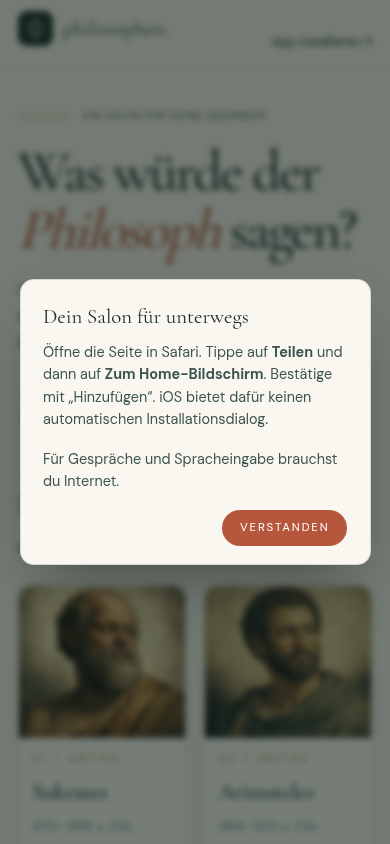
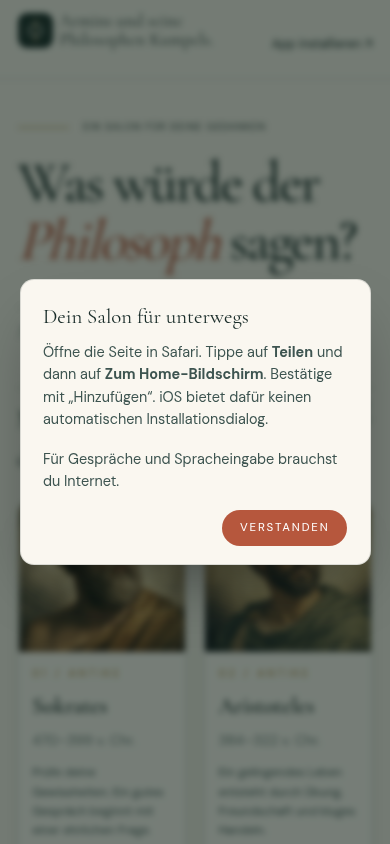
Invite mobile visitors to install with a three-day cooldown; personalize gift branding

diff --git a/src/main.jsx b/src/main.jsx
@@ -7,6 +7,9 @@ import './brand.css';
 
 const VERSION=__APP_VERSION__;
 window.__APP_VERSION__=VERSION;
+const INSTALL_STORE='philosophen-install-v1';
+const INSTALL_COOLDOWN=3*24*60*60*1000;
+function readInstall(){try{return JSON.parse(localStorage.getItem(INSTALL_STORE)||'{}')||{}}catch{return {}}}
 const STORE='philosophen-salon-v1';
 function readStore(){try{const v=JSON.parse(localStorage.getItem(STORE)||'{}');return {active:typeof v.active==='string'?v.active:null,drafts:v.drafts&&typeof v.drafts==='object'?v.drafts:{},threads:v.threads&&typeof v.threads==='object'?v.threads:{},transcripts:v.transcripts&&typeof v.transcripts==='object'?v.transcripts:{}}}catch{return {active:null,drafts:{},threads:{},transcripts:{}}}}
 const initial=readStore();
@@ -18,6 +21,7 @@ function App(){
  const [busy,setBusy]=useState(false),[pending,setPending]=useState(''),[phase,setPhase]=useState(''),[seconds,setSeconds]=useState(0);
  const [online,setOnline]=useState(navigator.onLine),[update,setUpdate]=useState(false),[refreshing,setRefreshing]=useState(false);
  const [installEvent,setInstallEvent]=useState(null),[modal,setModal]=useState(null),[storageWarning,setStorageWarning]=useState(false);
+ const installMemory=useRef(readInstall()),nativePending=useRef(false),installStorageFailed=useRef(false);
  const [standalone,setStandalone]=useState(matchMedia('(display-mode: standalone)').matches||navigator.standalone===true);
  const registration=useRef(null),refreshApproved=useRef(false),busyRef=useRef(false),abortChat=useRef(null),abortAudio=useRef(null),recorder=useRef(null),recordTimer=useRef(null),recordCancelled=useRef(false),mounted=useRef(true),bottom=useRef(null),input=useRef(null);
  const active=personas.find(p=>p.id===data.active);const id=active?.id;
@@ -36,7 +40,7 @@ function App(){
  async function checkVersion(){if(!navigator.onLine)return;try{const r=await fetch('/api/version',{cache:'no-store',signal:AbortSignal.timeout(8000)});if(r.ok){const j=await r.json();if(j.version!==VERSION)setUpdate(true)}await registration.current?.update()}catch{}}
  useEffect(()=>{mounted.current=true;loadPersonas();checkVersion();
   const goOnline=()=>{setOnline(true);checkVersion()};const goOffline=()=>setOnline(false);const foreground=()=>{if(document.visibilityState==='visible')checkVersion()};
-  const install=e=>{e.preventDefault();setInstallEvent(e)};const installed=()=>{setStandalone(true);setInstallEvent(null);setModal(null)};
+  const install=e=>{e.preventDefault();setInstallEvent(e)};const installed=()=>{saveInstall({installed:true});setStandalone(true);setInstallEvent(null);setModal(current=>['invite','install'].includes(current)?null:current)};
   window.addEventListener('online',goOnline);window.addEventListener('offline',goOffline);document.addEventListener('visibilitychange',foreground);window.addEventListener('beforeinstallprompt',install);window.addEventListener('appinstalled',installed);
   const timer=setInterval(checkVersion,60000);
   if('serviceWorker' in navigator){navigator.serviceWorker.register('/sw.js',{updateViaCache:'none'}).then(reg=>{registration.current=reg;if(reg.waiting)setUpdate(true);reg.addEventListener('updatefound',()=>{const worker=reg.installing;worker?.addEventListener('statechange',()=>{if(worker.state==='installed'&&navigator.serviceWorker.controller)setUpdate(true)})});reg.update().catch(()=>{})}).catch(()=>{});}
@@ -48,7 +52,28 @@ function App(){
   try{await Promise.race([registration.current?.update(),new Promise(r=>setTimeout(r,5000))])}catch{}
   if(registration.current?.waiting){registration.current.waiting.postMessage({type:'SKIP_WAITING'});setTimeout(()=>{if(!busyRef.current)location.reload()},2500)}else location.reload();
  }
- async function install(){if(installEvent){await installEvent.prompt();await installEvent.userChoice;setInstallEvent(null)}else setModal('install')}
+ function saveInstall(value){installMemory.current=value;try{localStorage.setItem(INSTALL_STORE,JSON.stringify(value));installStorageFailed.current=false}catch{installStorageFailed.current=true}}
+ function dismissInstall(){saveInstall({...installMemory.current,dismissedAt:Date.now()});setModal(null)}
+ useEffect(()=>{
+  const check=()=>{
+   const saved=readInstall();const state=installStorageFailed.current?installMemory.current:{...installMemory.current,...saved};
+   const installed=standalone||matchMedia('(display-mode: standalone)').matches||navigator.standalone===true||state.installed;
+   const phone=/iPhone|iPod|Android.*Mobile/i.test(navigator.userAgent);
+   const editing=document.activeElement?.matches('textarea,input,[contenteditable="true"]');
+   if(phone&&!installed&&!working&&!modal&&!nativePending.current&&!editing&&!update&&document.visibilityState==='visible'&&(!state.dismissedAt||Date.now()-state.dismissedAt>=INSTALL_COOLDOWN))setModal('invite');
+  };
+  const timer=setInterval(check,1000);window.addEventListener('focus',check);document.addEventListener('visibilitychange',check);
+  return()=>{clearInterval(timer);window.removeEventListener('focus',check);document.removeEventListener('visibilitychange',check)};
+ },[standalone,working,modal,update]);
+ async function install(){
+  dismissInstall();
+  if(installEvent){
+   nativePending.current=true;setInstallEvent(null);
+   try{await installEvent.prompt();await installEvent.userChoice}
+   catch{setModal('install')}
+   finally{nativePending.current=false}
+  }else setModal('install');
+ }
  function requestMessages(text){let list=[...messages,{role:'user',content:text}];while(list.length>23||list.reduce((n,m)=>n+m.content.length,0)>12000){if(list.length<=1)break;list=list.slice(2)}return list}
  async function send(e){e?.preventDefault();const text=draft.trim();if(!text||working||!online||text.length>4000)return;
   setError('');setBusy(true);setPending(text);const who=id;const controller=new AbortController();abortChat.current=controller;const timer=setTimeout(()=>controller.abort('timeout'),110000);
@@ -78,27 +103,28 @@ function App(){
  return <div className="shell">
   <a className="skip-link" href="#main">Zum Inhalt</a>
   {update&&<div className="update-banner" data-testid="update-available" role="status"><div className="txt"><strong>Eine neue Version ist verfügbar</strong>{working?<span className="busy-hint">Nach dem Gespräch oder der Aufnahme kannst du sicher aktualisieren.</span>:<span>Deine Entwürfe und Gespräche bleiben erhalten.</span>}</div><button className="act" data-testid="update-accept" disabled={working||refreshing} onClick={refresh}>{refreshing?'Wird geladen …':'Jetzt aktualisieren'}</button></div>}
-  <header className="topbar"><div className="container topbar-inner"><button className="brand" aria-label="Philosophen — zur Auswahl" disabled={working} onClick={()=>select(null)}><img className="brand-icon" src="/icons/logo.svg" alt=""/><span className="brand-mark">philosophen<span className="brand-period">.</span></span></button><div className="header-actions">{!online&&<span className="offline-pill" data-testid="offline" role="status"><span className="dot"/>Offline</span>}{!standalone&&<button className="install-link" onClick={install}>App installieren <span aria-hidden="true">↗</span></button>}</div></div></header>
+  <header className="topbar"><div className="container topbar-inner"><button className="brand" aria-label="Armins und seine Philosophen Kumpels. — zur Auswahl" disabled={working} onClick={()=>select(null)}><img className="brand-icon" src="/icons/logo.svg" alt=""/><span className="brand-mark">Armins und seine Philosophen Kumpels.</span></button><div className="header-actions">{!online&&<span className="offline-pill" data-testid="offline" role="status"><span className="dot"/>Offline</span>}{!standalone&&<button className="install-link" onClick={install}>App installieren <span aria-hidden="true">↗</span></button>}</div></div></header>
   {storageWarning&&<div className="notice container" role="alert">Dein Browser kann Gespräche gerade nicht dauerhaft speichern. Halte diese Seite geöffnet oder kopiere wichtige Texte.</div>}
-  {!active?<main id="main" className="container" tabIndex="-1"><section className="hero"><div className="hero-kicker"><span className="rule"/> EIN SALON FÜR DEINE GEDANKEN <span className="no">EST. HEUTE</span></div><h1>Was würde der<br/><span className="accent">Philosoph</span> sagen?</h1><p className="hero-sub">Die großen Fragen des Lebens. Acht außergewöhnliche Perspektiven. Und ein Gespräch, das ganz bei dir beginnt.</p><p className="dedication"><span className="rule"/>Für Armin. Zum Geburtstag – und für die Neugier, die bleibt.</p></section>
+  {!active?<main id="main" className="container" tabIndex="-1"><section className="hero"><div className="hero-kicker"><span className="rule"/> EIN SALON FÜR DEINE GEDANKEN </div><h1>Was würde der<br/><span className="accent">Philosoph</span> sagen?</h1><p className="dedication"><span className="rule"/>Für Armin. Zum Geburtstag – und für die Neugier, die bleibt.</p></section>
    <section aria-labelledby="collection-title"><div className="section-head"><h2 className="section-title" id="collection-title">Mit wem möchtest du denken?</h2><span className="section-no">01 — 08 / ZEITLOSE PERSPEKTIVEN</span></div>
     {loadError?<div className="grid-status" role="alert">{loadError}<div><button className="btn-retry" onClick={loadPersonas}>Erneut versuchen</button></div></div>:personas.length===0?<div className="grid-status" role="status">Die Türen des Salons öffnen sich …</div>:<div className="grid">{personas.map((p,i)=><button className="card" data-testid="persona-card" key={p.id} onClick={()=>select(p.id)} aria-label={`Mit ${p.name} sprechen`}><div className="card-portrait"><img src={p.image} alt={`Künstlerisches KI-Porträt von ${p.name}`} width="640" height="640" loading={i<4?'eager':'lazy'}/></div><div className="card-body"><span className="card-order">{String(i+1).padStart(2,'0')} / {i<3?'ANTIKE':'MODERNE'}</span><h3 className="card-name">{p.name}</h3><span className="card-dates">{p.dates}</span><p className="card-worldview">{p.worldview}</p><span className="card-cta">Gespräch beginnen <span className="arr" aria-hidden="true">↗</span></span></div></button>)}</div>}
    </section><div className="landing-note"><span aria-hidden="true">✧</span> Keine fertigen Antworten. Neue Wege, deine Fragen zu betrachten.</div>
-  </main>:<main id="main" className="chat-shell" tabIndex="-1"><div className="chat-header"><div className="chat-header-inner"><button className="btn-back" data-testid="back" disabled={working} onClick={()=>select(null)}><span aria-hidden="true">←</span> Auswahl</button><div className="chat-persona"><img src={active.image} alt=""/><div><h1 className="name">{active.name}</h1><div className="dates">{active.dates} · KI-Simulation</div></div></div><button className="btn-clear" data-testid="clear" disabled={working} onClick={()=>setModal('clear')}>Neu beginnen</button></div></div>
+  </main>:<main id="main" className="chat-shell" tabIndex="-1"><div className="chat-header"><div className="chat-header-inner"><button className="btn-back" data-testid="back" disabled={working} onClick={()=>select(null)}><span aria-hidden="true">←</span> Auswahl</button><div className="chat-persona"><img src={active.image} alt=""/><div><h1 className="name">{active.name}</h1><div className="dates">{active.dates}</div></div></div><button className="btn-clear" data-testid="clear" disabled={working} onClick={()=>setModal('clear')}>Neu beginnen</button></div></div>
    <div className="chat-scroll"><div className="chat-flow"><div className="greeting-block"><p className="quote">{active.greeting}</p><p className="attrib">Eine imaginative Begegnung mit {active.name}</p></div>{messages.length===0&&!busy&&<div className="starters">{active.starters.slice(0,3).map(s=><button key={s} className="btn-starter" onClick={()=>{setDraft(s);input.current?.focus()}}>{s}</button>)}</div>}
     <div aria-live="polite" aria-relevant="additions text">{messages.map((m,i)=><div key={i} className={`msg-row ${m.role}`} data-testid="message"><article className={`msg ${m.role}`}><div className="who">{m.role==='user'?'DU':active.name}</div><div className="body"><Markdown remarkPlugins={[remarkGfm]} skipHtml components={{a:({children,...props})=><a {...props} target="_blank" rel="noopener noreferrer">{children}</a>,img:()=>null}}>{m.content}</Markdown></div></article></div>)}
-    {busy&&<><div className="msg-row user"><article className="msg user"><div className="who">DU</div><div className="body">{pending}</div></article></div><div className="msg-row assistant"><article className="msg assistant" role="status"><div className="who">{active.name} denkt nach</div><div className="typing" aria-hidden="true"><span/><span/><span/></div><p className="loading-note">Ein guter Gedanke braucht manchmal einen Moment.</p></article></div></>}</div><div ref={bottom}/>
+    {busy&&<><div className="msg-row user"><article className="msg user"><div className="who">DU</div><div className="body">{pending}</div></article></div><div className="msg-row assistant"><article className="msg assistant" role="status"><div className="who">{active.name} denkt nach</div><div className="typing" aria-hidden="true"><span/><span/><span/></div></article></div></>}</div><div ref={bottom}/>
    </div></div>
    <div className="composer"><div className="composer-inner">{error&&<div className="notice" role="alert">{error}<button onClick={()=>setError('')} aria-label="Hinweis schließen">×</button></div>}
     {transcript&&<div className="transcript-box"><label className="label" htmlFor="transcript">Dein Transkript · prüfen und bearbeiten</label><textarea id="transcript" data-testid="transcript" value={transcript} maxLength={4000} onChange={e=>setTranscript(e.target.value)} rows="3" disabled={working}/><div className="row"><button className="drop" disabled={working} onClick={()=>setTranscript('')}>Verwerfen</button><button className="use" disabled={working} onClick={()=>{setDraft((draft?draft+'\n':'')+transcript);setTranscript('');input.current?.focus()}}>In die Frage übernehmen</button></div></div>}
     {!!phase&&<div className="rec-status" role="status"><span className="pulse"/>{phase==='recording'?`Aufnahme ${seconds} / 60 Sekunden`:phase==='requesting'?'Mikrofonfreigabe wird erwartet …':'Deine Worte werden transkribiert …'}<span className="spacer"/>{phase==='recording'&&<button onClick={()=>stopRecording(true)}>Verwerfen</button>}</div>}
-    <form onSubmit={send}><div className="composer-box"><textarea ref={input} data-testid="chat-input" aria-label="Deine Frage" placeholder={`Was möchtest du ${active.name} fragen?`} rows="2" maxLength={4000} value={draft} disabled={working} onChange={e=>setDraft(e.target.value)} onKeyDown={e=>{if(e.key==='Enter'&&(e.ctrlKey||e.metaKey)){e.preventDefault();send()}}}/><div className="composer-actions">{busy?<button type="button" className="icon-btn" onClick={()=>abortChat.current?.abort()} aria-label="Antwort abbrechen">■</button>:<><button type="button" className={`icon-btn ${phase==='recording'?'recording':''}`} data-testid="mic" aria-label={phase==='recording'?'Aufnahme stoppen':'Mikrofonaufnahme starten'} title={phase==='recording'?'Aufnahme stoppen':'Frage einsprechen'} disabled={!online||!!phase&&phase!=='recording'} onClick={()=>phase==='recording'?stopRecording():startRecording()}>{phase==='recording'?<span className="rec-dot"/>:<Icon kind="mic"/>}</button><button type="submit" className="send-btn" data-testid="send-button" aria-label="Frage senden" disabled={working||!online||!draft.trim()||draft.length>4000}><Icon kind="send"/></button></>}</div></div></form><div className="composer-meta"><span>KI-Simulation · keine Originalzitate</span><span className="count">{draft.length} / 4000</span></div><p className="privacy-small">Verlauf auf diesem Gerät. Antworten: Chutes / OpenRouter. Sprache: Groq. <button onClick={()=>setModal('privacy')}>Datenschutz</button></p>
+    <form onSubmit={send}><div className="composer-box"><textarea ref={input} data-testid="chat-input" aria-label="Deine Frage" placeholder={`Was möchtest du ${active.name} fragen?`} rows="2" maxLength={4000} value={draft} disabled={working} onChange={e=>setDraft(e.target.value)} onKeyDown={e=>{if(e.key==='Enter'&&(e.ctrlKey||e.metaKey)){e.preventDefault();send()}}}/><div className="composer-actions">{busy?<button type="button" className="icon-btn" onClick={()=>abortChat.current?.abort()} aria-label="Antwort abbrechen">■</button>:<><button type="button" className={`icon-btn ${phase==='recording'?'recording':''}`} data-testid="mic" aria-label={phase==='recording'?'Aufnahme stoppen':'Mikrofonaufnahme starten'} title={phase==='recording'?'Aufnahme stoppen':'Frage einsprechen'} disabled={!online||!!phase&&phase!=='recording'} onClick={()=>phase==='recording'?stopRecording():startRecording()}>{phase==='recording'?<span className="rec-dot"/>:<Icon kind="mic"/>}</button><button type="submit" className="send-btn" data-testid="send-button" aria-label="Frage senden" disabled={working||!online||!draft.trim()||draft.length>4000}><Icon kind="send"/></button></>}</div></div></form><div className="composer-meta"><span className="count">{draft.length} / 4000</span></div><p className="privacy-small">Verlauf auf diesem Gerät. Antworten: Chutes / OpenRouter. Sprache: Groq. <button onClick={()=>setModal('privacy')}>Datenschutz</button></p>
    </div></div>
   </main>}
-  {!active&&<footer className="footer container"><p>Imaginative KI-Simulationen, keine historischen Originalstimmen oder verlässlichen Zitate.</p><p>Gespräche bleiben in deinem Browser; für Antworten werden Nachrichten an den Modellanbieter übermittelt.</p><div className="footer-row"><button onClick={()=>setModal('privacy')}>Datenschutz & Hinweise</button><span className="version-tag" data-testid="app-version">Version {VERSION}</span></div></footer>}
+  {!active&&<footer className="footer container"><p>Gespräche bleiben in deinem Browser; für Antworten werden Nachrichten an den Modellanbieter übermittelt.</p><div className="footer-row"><button onClick={()=>setModal('privacy')}>Datenschutz & Hinweise</button><span className="version-tag" data-testid="app-version">Version {VERSION}</span></div></footer>}
   {modal==='clear'&&<Modal title="Ein neues Gespräch?" onClose={()=>setModal(null)}><p>Dieses Gespräch, der Entwurf und das Transkript mit {active?.name} werden nur auf diesem Gerät gelöscht. Die anderen Gespräche bleiben erhalten.</p><div className="row"><button className="btn plain" onClick={()=>setModal(null)}>Behalten</button><button className="btn danger" onClick={clear}>Gespräch löschen</button></div></Modal>}
-  {modal==='install'&&<Modal title="Dein Salon für unterwegs" onClose={()=>setModal(null)}>{ios?<p>Öffne die Seite in Safari. Tippe auf <strong>Teilen</strong> und dann auf <strong>Zum Home-Bildschirm</strong>. Bestätige mit „Hinzufügen“. iOS bietet dafür keinen automatischen Installationsdialog.</p>:<p>Wenn dein Browser die Installation unterstützt, findest du im Browsermenü <strong>App installieren</strong> oder <strong>Zum Startbildschirm hinzufügen</strong>. Sobald ein direkter Installationsdialog verfügbar ist, öffnet unser Installationsknopf ihn. Du kannst die Seite auch als Lesezeichen speichern.</p>}<p>Für Gespräche und Spracheingabe brauchst du Internet.</p><div className="row"><button className="btn danger" onClick={()=>setModal(null)}>Verstanden</button></div></Modal>}
-  {modal==='privacy'&&<Modal title="Ein offenes Wort" onClose={()=>setModal(null)}><p>Dies ist ein persönliches Geburtstagsgeschenk für Armin. Alle Porträts und Antworten sind künstlerische KI-Simulationen. Sie können ungenau sein und sind keine Originalzitate.</p><p>Deine Gespräche, Entwürfe und Transkripte werden ausschließlich im Speicher dieses Browsers abgelegt. „Neu beginnen“ löscht das ausgewählte Gespräch. Gelöschte Browserdaten lassen sich nicht wiederherstellen.</p><p>Zum Antworten übermittelt der Server den relevanten Gesprächsverlauf an Chutes oder einen über OpenRouter ausgewählten Anbieter. Audio wird zur Transkription an Groq übertragen. Die App führt keine Gesprächsdatenbank und protokolliert keine Inhalte; die Anbieter haben eigene Datenschutzregeln. Bitte teile keine vertraulichen Informationen.</p><p>Die öffentliche Nutzung ist begrenzt, damit der Salon für alle erreichbar bleibt. KI-Antworten ersetzen keine fachliche Beratung.</p><div className="row"><button className="btn danger" onClick={()=>setModal(null)}>Zurück zum Salon</button></div></Modal>}
+  {modal==='invite'&&<Modal title="Deinen Salon als App installieren?" onClose={dismissInstall}><p>So hast du deine Philosophen direkt auf dem Startbildschirm dabei.</p><div className="row install-answers"><button className="btn plain" onClick={dismissInstall}>Nein</button><button className="btn danger" onClick={install}>Ja</button></div></Modal>}
+  {modal==='install'&&<Modal title="Dein Salon für unterwegs" onClose={dismissInstall}>{ios?<p>Öffne die Seite in Safari. Tippe auf <strong>Teilen</strong> und dann auf <strong>Zum Home-Bildschirm</strong>. Bestätige mit „Hinzufügen“. iOS bietet dafür keinen automatischen Installationsdialog.</p>:<p>Wenn dein Browser die Installation unterstützt, findest du im Browsermenü <strong>App installieren</strong> oder <strong>Zum Startbildschirm hinzufügen</strong>. Sobald ein direkter Installationsdialog verfügbar ist, öffnet unser Installationsknopf ihn. Du kannst die Seite auch als Lesezeichen speichern.</p>}<p>Für Gespräche und Spracheingabe brauchst du Internet.</p><div className="row"><button className="btn danger" onClick={()=>setModal(null)}>Verstanden</button></div></Modal>}
+  {modal==='privacy'&&<Modal title="Ein offenes Wort" onClose={()=>setModal(null)}><p>Deine Gespräche, Entwürfe und Transkripte werden ausschließlich im Speicher dieses Browsers abgelegt. „Neu beginnen“ löscht das ausgewählte Gespräch. Gelöschte Browserdaten lassen sich nicht wiederherstellen.</p><p>Zum Antworten übermittelt der Server den relevanten Gesprächsverlauf an Chutes oder einen über OpenRouter ausgewählten Anbieter. Audio wird zur Transkription an Groq übertragen. Die App führt keine Gesprächsdatenbank und protokolliert keine Inhalte; die Anbieter haben eigene Datenschutzregeln. Bitte teile keine vertraulichen Informationen.</p><p>Die öffentliche Nutzung ist begrenzt, damit der Salon für alle erreichbar bleibt.</p><div className="row"><button className="btn danger" onClick={()=>setModal(null)}>Zurück zum Salon</button></div></Modal>}
  </div>
 }
 createRoot(document.getElementById('root')).render(<App/>);

diff --git a/src/styles.css b/src/styles.css
@@ -801,3 +801,13 @@ button {
 @media (prefers-reduced-motion: reduce) {
   *, *::before, *::after { animation-duration: 0.01ms !important; transition-duration: 0.01ms !important; }
 }
+
+/* Gift branding wraps within narrow smartphone headers. */
+.topbar-inner .brand{min-width:0;flex:1;text-align:left}
+.topbar-inner .brand-icon{flex-shrink:0}
+.topbar-inner .brand-mark{line-height:1.1;overflow-wrap:anywhere}
+.topbar-inner .header-actions{flex-shrink:0;max-width:7rem}
+.topbar-inner .install-link{min-height:44px}
+.install-answers .btn{min-width:72px;min-height:44px;text-transform:none;font-size:1rem;letter-spacing:normal}
+.composer-meta{justify-content:flex-end}
+@media(max-width:640px){.topbar-inner .brand-mark{font-size:1.08rem}.topbar-inner{gap:.65rem}.topbar-inner .brand{gap:7px}}
